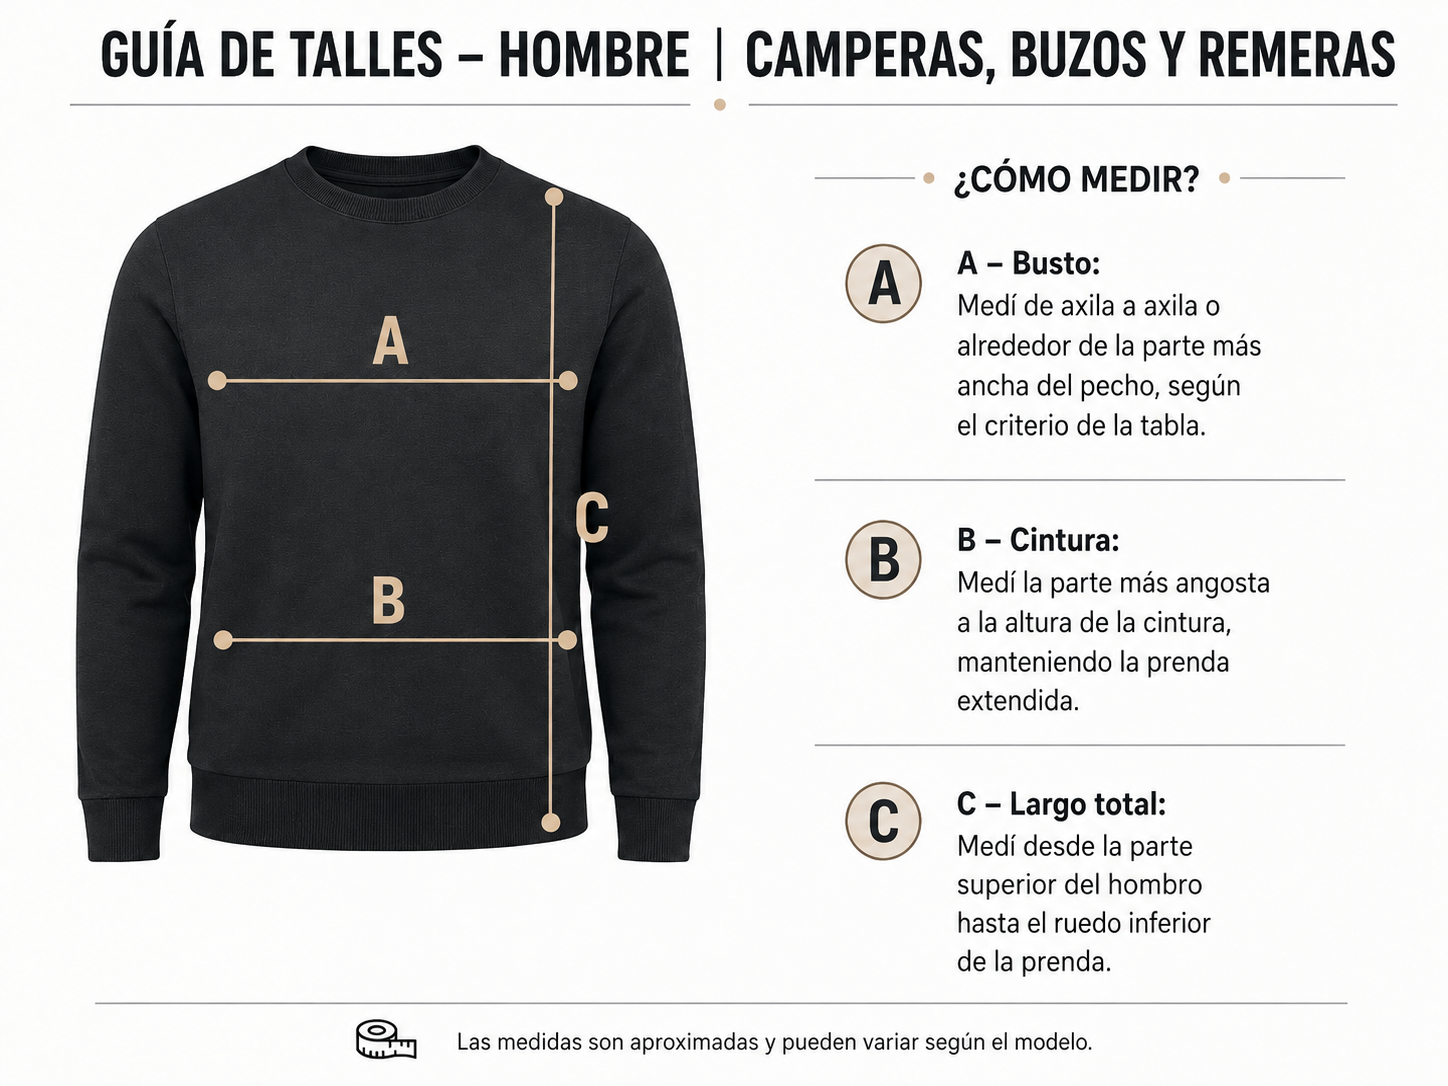
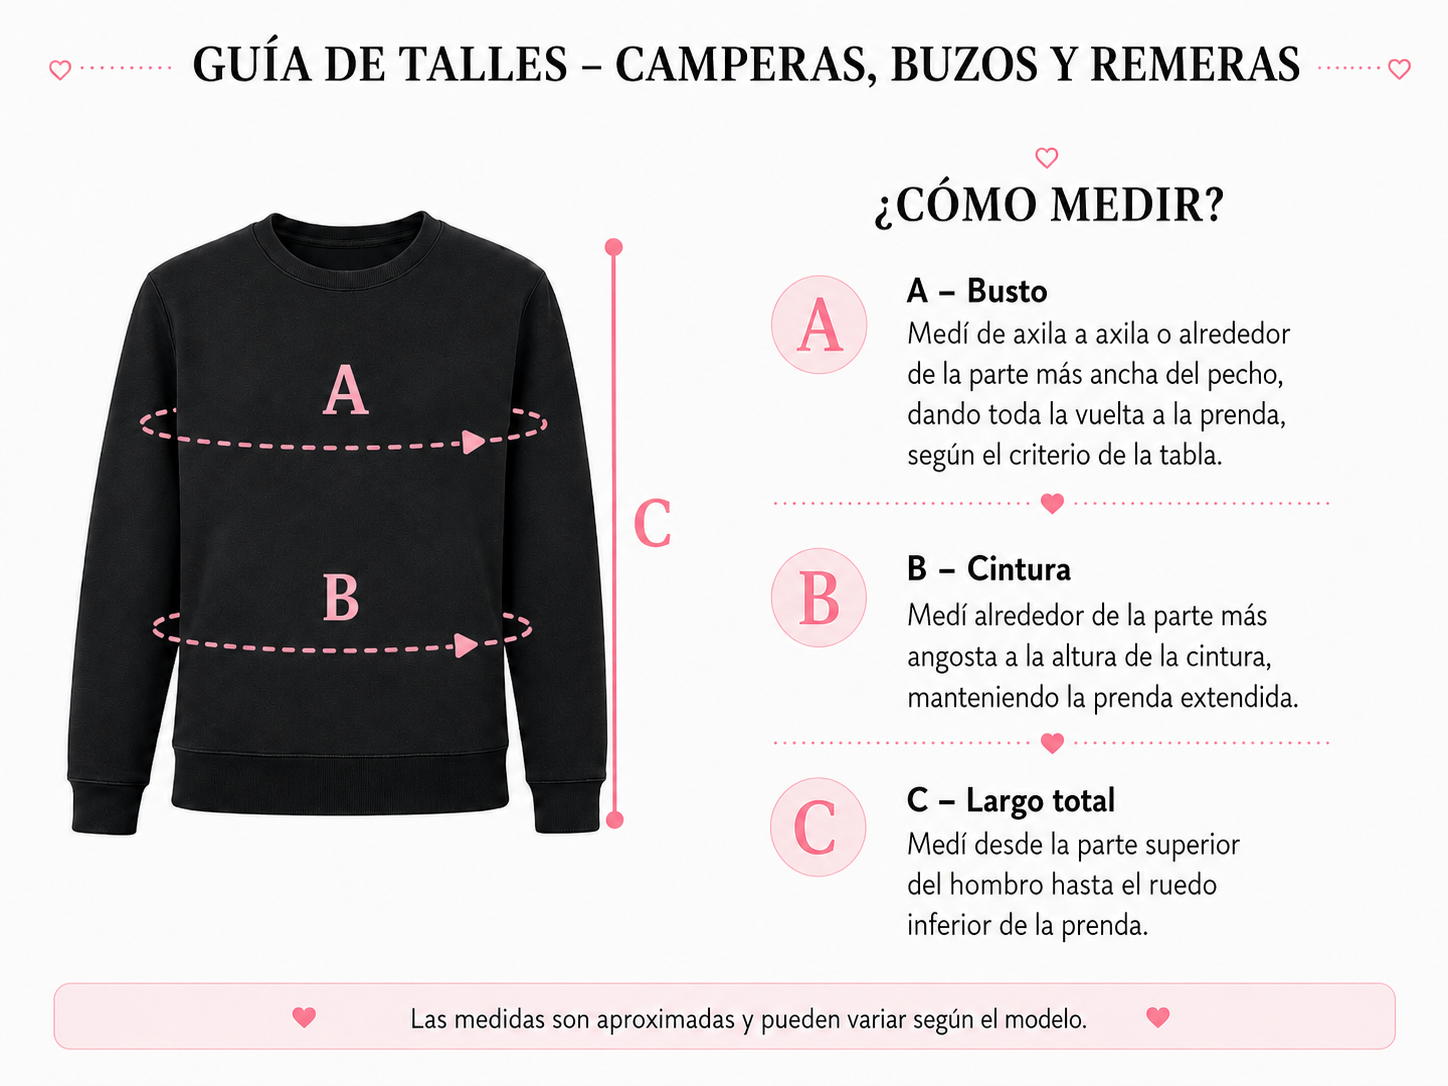
update tablas

diff --git a/frontend/public/ayuda.html b/frontend/public/ayuda.html
@@ -684,14 +684,14 @@
                   <tr><th>Talle</th><th>A (Cintura)</th><th>B (Cadera)</th><th>C (Largo total)</th></tr>
                 </thead>
                 <tbody>
-                  <tr><td>1</td><td>60-64</td><td>86-90</td><td>98</td></tr>
-                  <tr><td>2</td><td>64-68</td><td>90-94</td><td>99</td></tr>
-                  <tr><td>3</td><td>68-72</td><td>94-98</td><td>100</td></tr>
-                  <tr><td>4</td><td>72-76</td><td>98-102</td><td>101</td></tr>
-                  <tr><td>5</td><td>76-80</td><td>102-106</td><td>102</td></tr>
-                  <tr><td>6</td><td>80-84</td><td>106-110</td><td>103</td></tr>
-                  <tr><td>7</td><td>84-88</td><td>110-114</td><td>104</td></tr>
-                  <tr><td>8</td><td>88-92</td><td>114-118</td><td>105</td></tr>
+                  <tr><td>1</td><td>74-78</td><td>98-102</td><td>109</td></tr>
+                  <tr><td>2</td><td>78-82</td><td>102-106</td><td>110</td></tr>
+                  <tr><td>3</td><td>82-86</td><td>106-110</td><td>111</td></tr>
+                  <tr><td>4</td><td>86-90</td><td>110-114</td><td>112</td></tr>
+                  <tr><td>5</td><td>90-94</td><td>114-118</td><td>113</td></tr>
+                  <tr><td>6</td><td>94-98</td><td>118-122</td><td>114</td></tr>
+                  <tr><td>7</td><td>98-102</td><td>122-126</td><td>115</td></tr>
+                  <tr><td>8</td><td>102-106</td><td>126-130</td><td>116</td></tr>
                 </tbody>
               </table>
             </div>
@@ -709,14 +709,14 @@
                   <tr><th>Talle</th><th>A (Busto)</th><th>B (Cintura)</th><th>C (Largo total)</th></tr>
                 </thead>
                 <tbody>
-                  <tr><td>1</td><td>80-84</td><td>60-64</td><td>60</td></tr>
-                  <tr><td>2</td><td>84-88</td><td>64-68</td><td>61</td></tr>
-                  <tr><td>3</td><td>88-92</td><td>68-72</td><td>62</td></tr>
-                  <tr><td>4</td><td>92-96</td><td>72-76</td><td>63</td></tr>
-                  <tr><td>5</td><td>96-100</td><td>76-80</td><td>64</td></tr>
-                  <tr><td>6</td><td>100-104</td><td>80-84</td><td>65</td></tr>
-                  <tr><td>7</td><td>104-108</td><td>84-88</td><td>66</td></tr>
-                  <tr><td>8</td><td>108-112</td><td>88-92</td><td>67</td></tr>
+                  <tr><td>1</td><td>92-96</td><td>88-92</td><td>61</td></tr>
+                  <tr><td>2</td><td>96-100</td><td>92-96</td><td>62</td></tr>
+                  <tr><td>3</td><td>100-104</td><td>96-100</td><td>63</td></tr>
+                  <tr><td>4</td><td>104-108</td><td>100-104</td><td>64</td></tr>
+                  <tr><td>5</td><td>108-112</td><td>104-108</td><td>65</td></tr>
+                  <tr><td>6</td><td>112-116</td><td>108-112</td><td>66</td></tr>
+                  <tr><td>7</td><td>116-120</td><td>112-116</td><td>67</td></tr>
+                  <tr><td>8</td><td>120-124</td><td>116-120</td><td>68</td></tr>
                 </tbody>
               </table>
             </div>
@@ -739,14 +739,14 @@
                   <tr><th>Talle</th><th>A (Cintura)</th><th>B (Cadera)</th><th>C (Largo total)</th></tr>
                 </thead>
                 <tbody>
-                  <tr><td>1</td><td>70-74</td><td>90-94</td><td>102</td></tr>
-                  <tr><td>2</td><td>74-78</td><td>94-98</td><td>103</td></tr>
-                  <tr><td>3</td><td>78-82</td><td>98-102</td><td>104</td></tr>
-                  <tr><td>4</td><td>82-86</td><td>102-106</td><td>105</td></tr>
-                  <tr><td>5</td><td>86-90</td><td>106-110</td><td>106</td></tr>
-                  <tr><td>6</td><td>90-94</td><td>110-114</td><td>107</td></tr>
-                  <tr><td>7</td><td>94-98</td><td>114-118</td><td>108</td></tr>
-                  <tr><td>8</td><td>98-102</td><td>118-122</td><td>109</td></tr>
+                  <tr><td>1</td><td>74-78</td><td>112-116</td><td>104</td></tr>
+                  <tr><td>2</td><td>78-82</td><td>116-120</td><td>105</td></tr>
+                  <tr><td>3</td><td>82-86</td><td>120-124</td><td>106</td></tr>
+                  <tr><td>4</td><td>86-90</td><td>124-128</td><td>107</td></tr>
+                  <tr><td>5</td><td>90-94</td><td>128-132</td><td>108</td></tr>
+                  <tr><td>6</td><td>94-98</td><td>132-136</td><td>109</td></tr>
+                  <tr><td>7</td><td>98-102</td><td>136-140</td><td>110</td></tr>
+                  <tr><td>8</td><td>102-106</td><td>140-144</td><td>111</td></tr>
                 </tbody>
               </table>
             </div>
@@ -764,14 +764,14 @@
                   <tr><th>Talle</th><th>A (Busto)</th><th>B (Cintura)</th><th>C (Largo total)</th></tr>
                 </thead>
                 <tbody>
-                  <tr><td>1</td><td>88-92</td><td>70-74</td><td>65</td></tr>
-                  <tr><td>2</td><td>92-96</td><td>74-78</td><td>66</td></tr>
-                  <tr><td>3</td><td>96-100</td><td>78-82</td><td>67</td></tr>
-                  <tr><td>4</td><td>100-104</td><td>82-86</td><td>68</td></tr>
-                  <tr><td>5</td><td>104-108</td><td>86-90</td><td>69</td></tr>
-                  <tr><td>6</td><td>108-112</td><td>90-94</td><td>70</td></tr>
-                  <tr><td>7</td><td>112-116</td><td>94-98</td><td>71</td></tr>
-                  <tr><td>8</td><td>116-120</td><td>98-102</td><td>72</td></tr>
+                  <tr><td>1</td><td>104-108</td><td>100-104</td><td>66</td></tr>
+                  <tr><td>2</td><td>108-112</td><td>104-108</td><td>67</td></tr>
+                  <tr><td>3</td><td>112-116</td><td>108-112</td><td>68</td></tr>
+                  <tr><td>4</td><td>116-120</td><td>112-116</td><td>69</td></tr>
+                  <tr><td>5</td><td>120-124</td><td>116-120</td><td>70</td></tr>
+                  <tr><td>6</td><td>124-128</td><td>120-124</td><td>71</td></tr>
+                  <tr><td>7</td><td>128-132</td><td>124-128</td><td>72</td></tr>
+                  <tr><td>8</td><td>132-136</td><td>128-132</td><td>73</td></tr>
                 </tbody>
               </table>
             </div>
